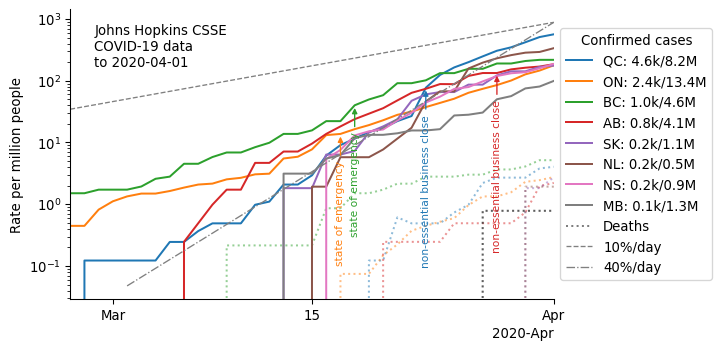
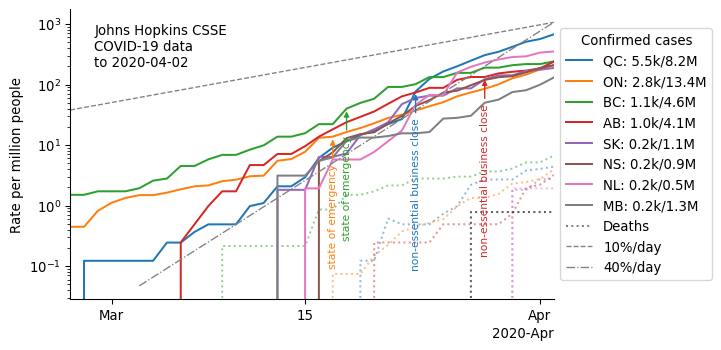
Updated for 2020-04-02. Substituted Spain for Germany.

diff --git a/visualization/plots.py b/visualization/plots.py
@@ -31,9 +31,9 @@ PROV_POP_CSV = (
     'T=101&SR=1&RPP=25&PR=0&CMA=0&CSD=0&S=50&O=A&Lang=Eng&OFT=CSV')
 
 PLOT_COUNTRIES = [
-    ['China', 'Italy', 'Canada', 'United States', 'Iran', 'South Korea',
+    ['China', 'Canada', 'Italy', 'United States', 'Iran', 'South Korea',
      'Taiwan', 'Singapore'],
-    ['China', 'Italy', 'Canada', 'United Kingdom', 'France', 'Germany',
+    ['China', 'Canada', 'Italy', 'United Kingdom', 'France', 'Spain',
      'Sweden', 'Russia'],
      ]
 
